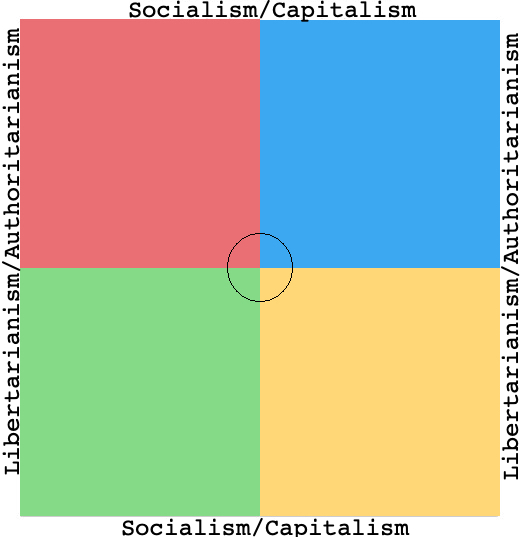
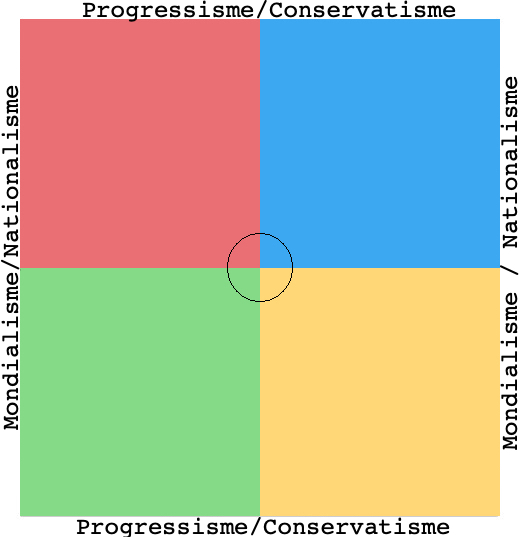
init

diff --git a/src/App.js b/src/App.js
@@ -8,42 +8,42 @@ import { Component } from 'react';
 class App extends Component{
   constructor(props) {
     super(props);
-    this.state = {social:0,economic:0, questionIndex:0};
+    this.state = {socioeconomique:0,identite:0, questionIndex:0};
     this.questions = {
 
-      //15 economic
-      0 : {"question":"Taxation is theft", "affects":"economic", "direction": 1},
-      1 : {"question":"The state should jail people for possessing illegal drugs", "affects":"social", "direction": 1},
-      2 : {"question":"I support a carbon tax", "affects":"economic", "direction": -1},
-      3: {"question":"It would be better if the governement controlled the economy", "affects":"economic", "direction": -1},
-      4: {"question":"Sex work involving consenting adults should be legal", "affects":"social", "direction": -1},
-      5: {"question":"Countries like China are doing a better job at governing than countries like the United States or Canada", "affects":"social", "direction": 1},
-      6: {"question":"A minimum wage set by the gouvernment is a bad idea : let people negotiate wages on their own", "affects":"economic", "direction": 1},
-      7: {"question":"Gay couples should be able to adopt", "affects":"social", "direction": -1},
-      8: {"question":"Women dresses today are too revealing", "affects":"social", "direction": 1},
-      9: {"question":"Corporations are unfairly exploiting their workers", "affects":"economic", "direction": -1},
-      10: {"question":"Charter schools are a better solution than a public education system", "affects":"economic", "direction": 1},
-      11: {"question":"People who say things I consider objectionable should be punished", "affects":"social", "direction": 1},
-      12: {"question":"Trans people should live by the gender they want and be legally recognized as it ", "affects":"social", "direction": -1},
-      13: {"question":"The government should ensure everyone gets enough to live", "affects":"economic", "direction": -1},
-      14: {"question":"Rent control is a good idea", "affects":"economic", "direction": -1},
-      15: {"question":"If you have nothing to hide, you have nothing to fear", "affects":"social", "direction": 1},
-      16: {"question":"Access to abortion should be restricted ", "affects":"social", "direction": 1},
-      17: {"question":"We should welcome immigrants and refugees", "affects":"social", "direction": -1},
-      18: {"question":"Government should never subisize businesses", "affects":"economic", "direction": 1},
-      19: {"question":"The government should restrict the sales of weapons", "affects":"social", "direction": 1},
-      20: {"question":"It would be better if there were less things in the way of our government and our police officiers", "affects":"social", "direction": 1},
-      21: {"question":"I support universal healthcare", "affects":"economic", "direction": -1},
-      22: {"question":"If someone else's house burns, it is not my problem and I should not pay for the carelessness of others", "affects":"economic", "direction": 1},
-      23: {"question":"The police and the courts should be handled by the free markets and paid for by voluntarily individuals", "affects":"economic", "direction": 1},
-      24: {"question":"Black lives matter", "affects":"social", "direction": -1},
-      25: {"question":"Land property isn't a legitimate form of property", "affects":"economic", "direction": -1},
-      26: {"question":"Food supply should be managed by the state", "affects":"economic", "direction": -1},
-      27: {"question":"Sick and suffering people should be able to seek medical assistance to end their own lives", "affects":"social", "direction": -1},
-      28: {"question":"Young boys should not be circumcised until they are mature to make this decision for themselves", "affects":"social", "direction": -1},
-      29: {"question":"Forcing children to hug or kiss relatives is not okay", "affects":"social", "direction": -1},
-      30: {"question":"Felons should not be able to vote", "affects":"social", "direction": 1},
-      31: {"question":"Boycotts are a better way to hold coroporations accountable than government regulation", "affects":"economic", "direction": 1},
+      //15 identite
+      0 : {"question":"Taxation is theft", "affects":"identite", "direction": 1},
+      1 : {"question":"The state should jail people for possessing illegal drugs", "affects":"socioeconomique", "direction": 1},
+      2 : {"question":"I support a carbon tax", "affects":"identite", "direction": -1},
+      3: {"question":"It would be better if the governement controlled the economy", "affects":"identite", "direction": -1},
+      4: {"question":"Sex work involving consenting adults should be legal", "affects":"socioeconomique", "direction": -1},
+      5: {"question":"Countries like China are doing a better job at governing than countries like the United States or Canada", "affects":"socioeconomique", "direction": 1},
+      6: {"question":"A minimum wage set by the gouvernment is a bad idea : let people negotiate wages on their own", "affects":"identite", "direction": 1},
+      7: {"question":"Gay couples should be able to adopt", "affects":"socioeconomique", "direction": -1},
+      8: {"question":"Women dresses today are too revealing", "affects":"socioeconomique", "direction": 1},
+      9: {"question":"Corporations are unfairly exploiting their workers", "affects":"identite", "direction": -1},
+      10: {"question":"Charter schools are a better solution than a public education system", "affects":"identite", "direction": 1},
+      11: {"question":"People who say things I consider objectionable should be punished", "affects":"socioeconomique", "direction": 1},
+      12: {"question":"Trans people should live by the gender they want and be legally recognized as it ", "affects":"socioeconomique", "direction": -1},
+      13: {"question":"The government should ensure everyone gets enough to live", "affects":"identite", "direction": -1},
+      14: {"question":"Rent control is a good idea", "affects":"identite", "direction": -1},
+      15: {"question":"If you have nothing to hide, you have nothing to fear", "affects":"socioeconomique", "direction": 1},
+      16: {"question":"Access to abortion should be restricted ", "affects":"socioeconomique", "direction": 1},
+      17: {"question":"We should welcome immigrants and refugees", "affects":"socioeconomique", "direction": -1},
+      18: {"question":"Government should never subisize businesses", "affects":"identite", "direction": 1},
+      19: {"question":"The government should restrict the sales of weapons", "affects":"socioeconomique", "direction": 1},
+      20: {"question":"It would be better if there were less things in the way of our government and our police officiers", "affects":"socioeconomique", "direction": 1},
+      21: {"question":"I support universal healthcare", "affects":"identite", "direction": -1},
+      22: {"question":"If someone else's house burns, it is not my problem and I should not pay for the carelessness of others", "affects":"identite", "direction": 1},
+      23: {"question":"The police and the courts should be handled by the free markets and paid for by voluntarily individuals", "affects":"identite", "direction": 1},
+      24: {"question":"Black lives matter", "affects":"socioeconomique", "direction": -1},
+      25: {"question":"Land property isn't a legitimate form of property", "affects":"identite", "direction": -1},
+      26: {"question":"Food supply should be managed by the state", "affects":"identite", "direction": -1},
+      27: {"question":"Sick and suffering people should be able to seek medical assistance to end their own lives", "affects":"socioeconomique", "direction": -1},
+      28: {"question":"Young boys should not be circumcised until they are mature to make this decision for themselves", "affects":"socioeconomique", "direction": -1},
+      29: {"question":"Forcing children to hug or kiss relatives is not okay", "affects":"socioeconomique", "direction": -1},
+      30: {"question":"Felons should not be able to vote", "affects":"socioeconomique", "direction": 1},
+      31: {"question":"Boycotts are a better way to hold coroporations accountable than government regulation", "affects":"identite", "direction": 1},
 
 
 
@@ -74,19 +74,19 @@ class App extends Component{
 
     };
   }
-  changeEconomicStateBy = (number,doSwitch) => {
+  changeidentiteStateBy = (number,doSwitch) => {
     //on ne peut que passer des fonctions anonymes
     //num
     this.switchQuestion(doSwitch);
-    this.setState({economic:this.state.economic+number});
+    this.setState({identite:this.state.identite+number});
     console.log(this.state)
   }
 
-  changeSocialStateBy = (number,doSwitch) => {
+  changesocioeconomiqueStateBy = (number,doSwitch) => {
     //on ne peut que passer des fonctions anonymes
     //number = 0;
     this.switchQuestion(doSwitch);
-    this.setState({social:this.state.social+number});
+    this.setState({socioeconomique:this.state.socioeconomique+number});
     console.log(this.state)
   }
   switchQuestion = (by=1) => {
@@ -105,13 +105,13 @@ class App extends Component{
       <div className="container-fluid">
       <div className = "row">
       <div className="col-xl-5">
-    <Grid economic = {this.state.economic} social = {this.state.social}></Grid>
+    <Grid identite = {this.state.identite} socioeconomique = {this.state.socioeconomique}></Grid>
     </div>
     <div className="col-xl-7 qContainer">
     <Question questionString = {this.questions[this.state.questionIndex]["question"]} index ={ this.state.questionIndex}></Question>
     </div>
     </div></div> 
-    <AnswerSelection question = {this.questions[this.state.questionIndex]} questionHandler = {this.switchQuestion} clickHandlerFunctions={{"economic":this.changeEconomicStateBy,"social": this.changeSocialStateBy}} clickHandlerFunctionsII={{"economic":this.changeEconomicStateBy,"social": this.changeSocialStateBy}}></AnswerSelection>
+    <AnswerSelection question = {this.questions[this.state.questionIndex]} questionHandler = {this.switchQuestion} clickHandlerFunctions={{"identite":this.changeidentiteStateBy,"socioeconomique": this.changesocioeconomiqueStateBy}} clickHandlerFunctionsII={{"identite":this.changeidentiteStateBy,"socioeconomique": this.changesocioeconomiqueStateBy}}></AnswerSelection>
     </div>
   );
   }

diff --git a/src/AnswerSelection/AnswerSelection.js b/src/AnswerSelection/AnswerSelection.js
@@ -5,7 +5,7 @@ import "./AnswerSelection.css"
 class AnswerSelection extends Component{
     constructor(props) {
         super(props);
-        this.infos = {lastAffected:"social",lastDirection:0,lastIntensity:0, lastAnswer:1, canGoBack:false};
+        this.infos = {lastAffected:"socioeconomique",lastDirection:0,lastIntensity:0, lastAnswer:1, canGoBack:false};
       }
       updateHandler = (answer,intensity,lastDirection,lastIntensity,) => {
         this.infos = {lastAffected:this.props.question["affects"],lastDirection:Number(this.props.question["direction"]),lastIntensity:intensity, lastAnswer:answer, canGoBack:true};
@@ -42,11 +42,11 @@ class AnswerSelection extends Component{
         return(
           <div className = "questionArea">
             <Fragment>
-                <AnswerButton answer="Totally agree" color = "#81D799" clickHandler={this.chooseAppropriateClickHandler(1,2)} updater={this.chooseUpdateInfos(1,2)} ></AnswerButton>
-                <AnswerButton answer="Agree"  clickHandler={this.chooseAppropriateClickHandler(1,1)} color="#BAE6C2" updater={this.chooseUpdateInfos(1,1)} ></AnswerButton>
-                <AnswerButton answer="Unsure/Neutral" clickHandler={this.chooseAppropriateClickHandler(0,0)} updater={this.chooseUpdateInfos(0,0)} color = "#EEE573"></AnswerButton>
-                <AnswerButton answer="Disagree"  color = "#FFADAB" clickHandler={this.chooseAppropriateClickHandler(-1,1)} updater={this.chooseUpdateInfos(-1,1)}></AnswerButton>
-                <AnswerButton answer="Totally Disagree"  color = "#EE7373" clickHandler={this.chooseAppropriateClickHandler(-1,2)}updater={this.chooseUpdateInfos(-1,2)}></AnswerButton>
+                <AnswerButton answer="Complètement d'accord" color = "#81D799" clickHandler={this.chooseAppropriateClickHandler(1,2)} updater={this.chooseUpdateInfos(1,2)} ></AnswerButton>
+                <AnswerButton answer="En accorc"  clickHandler={this.chooseAppropriateClickHandler(1,1)} color="#BAE6C2" updater={this.chooseUpdateInfos(1,1)} ></AnswerButton>
+                <AnswerButton answer="Ne se prononce pas" clickHandler={this.chooseAppropriateClickHandler(0,0)} updater={this.chooseUpdateInfos(0,0)} color = "#EEE573"></AnswerButton>
+                <AnswerButton answer="En désaccord"  color = "#FFADAB" clickHandler={this.chooseAppropriateClickHandler(-1,1)} updater={this.chooseUpdateInfos(-1,1)}></AnswerButton>
+                <AnswerButton answer="Complètement en désaccord"  color = "#EE7373" clickHandler={this.chooseAppropriateClickHandler(-1,2)}updater={this.chooseUpdateInfos(-1,2)}></AnswerButton>
                 <AnswerButton answer="Go back" color = "#ffa8d7" clickHandler={this.backHandler()}updater={this.updateInfosBack} ></AnswerButton>
             </Fragment>
             </div>

diff --git a/src/grid/Grid.js b/src/grid/Grid.js
@@ -18,13 +18,13 @@ class Grid extends Component{
             textAlign: "center",
             top:"50%",
 
-            transform: "translate("+0.5*this.props.economic+"%,"+ (-0.5)*this.props.social+"%)",
+            transform: "translate("+0.5*this.props.identite+"%,"+ (-0.5)*this.props.socioeconomique+"%)",
             paddingTop: "50.5%",
             paddingBottom:"49.5%"
         }}>🎱</div>  
         </div>
         <div>
-        {this.props.economic} , {this.props.social} </div>
+        {this.props.identite} , {this.props.socioeconomique} </div>
         </Fragment>
         );
     }
